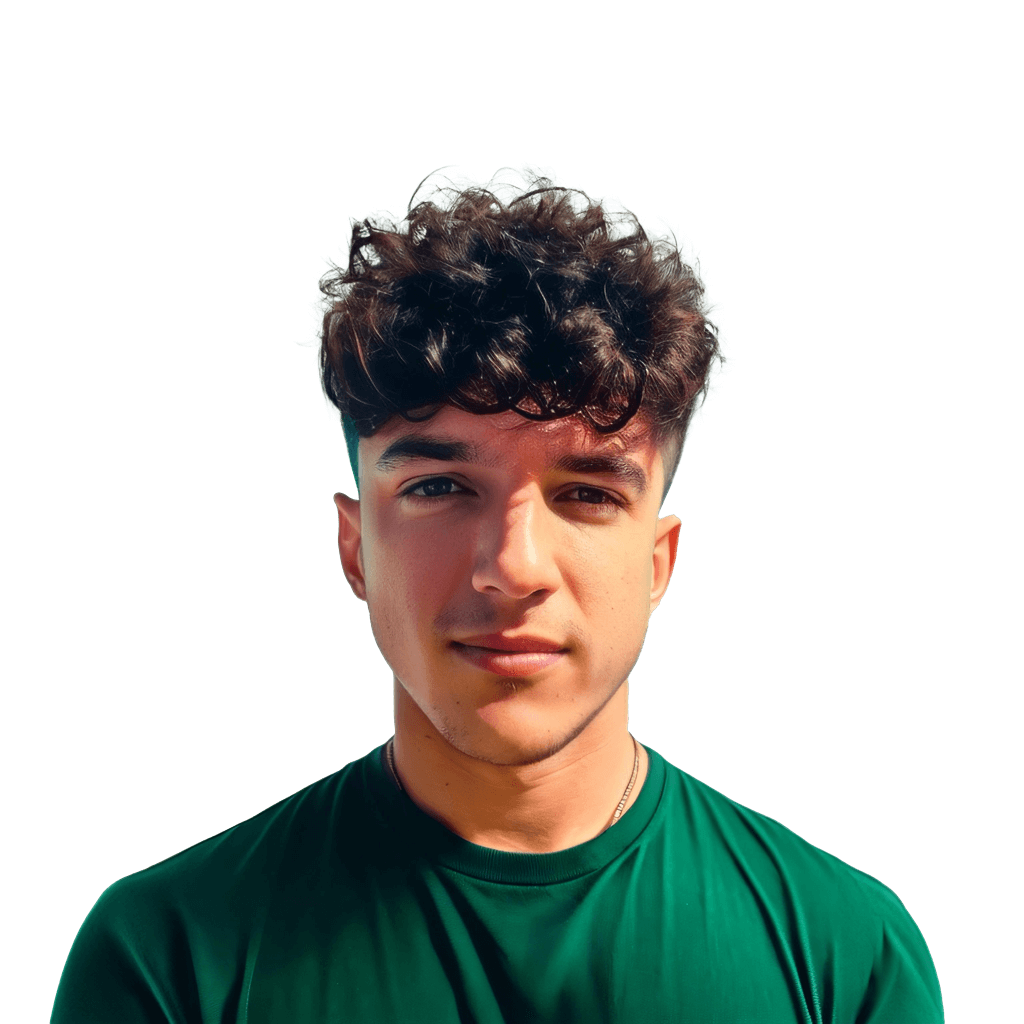
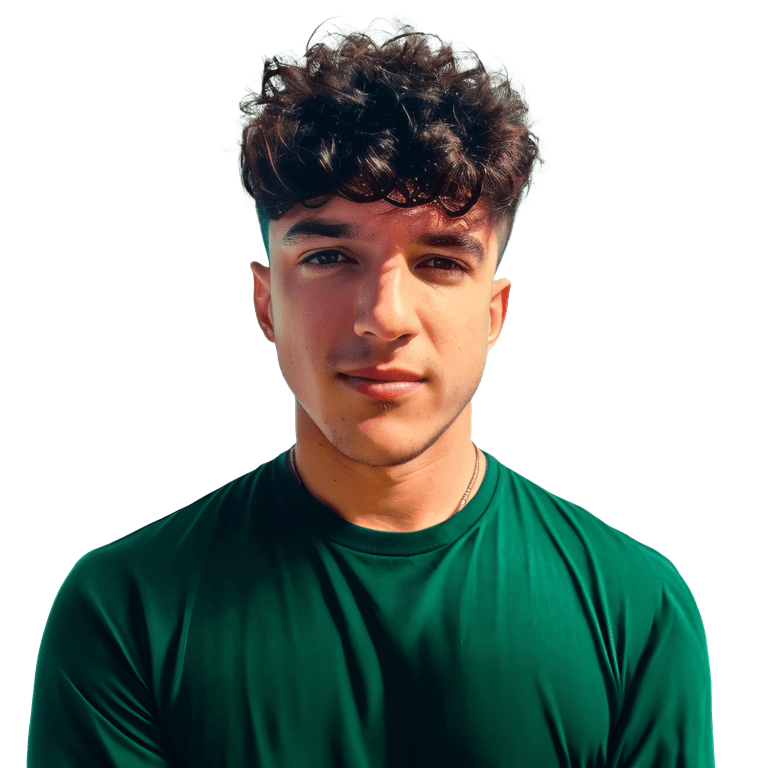
Styles, wave transitions, new profile photo.

diff --git a/src/app/_components/home.tsx b/src/app/_components/home.tsx
@@ -2,33 +2,32 @@ import Image from 'next/image'
 
 export default function Home () {
   return (
-    <main className='min-h-screen w-full' id='home'>
-      <div
-        className='absolute top-0 z-[-2] h-screen w-screen max-w-full
-       bg-jade-50 bg-[radial-gradient(ellipse_80%_80%_at_50%_-20%,rgba(67,229,160,0.4),rgba(255,255,255,0))]'
-      ></div>
-      <div className='relative z-10 flex min-h-screen container mx-auto p-24 pb-0'>
-        <div className='text-gray-800 text-pretty w-full text-center flex flex-col justify-end items-center'>
-          <div className='max-w-max'>
-            <h3 className='text-start small-heading'>¡Hola! Soy</h3>
-            <h1 className='big-heading'>Jorge González Azpillaga,</h1>
-            <h3 className='text-end small-heading'>desarrollador web.</h3>
-          </div>
-          <div className='w-full flex justify-center items-end'>
-            <Image
-              src='/profile.png'
-              alt='Foto de perfil personal - Jgonaz'
-              width={768}
-              height={768}
-              priority={true}
-              sizes='100vw'
-              style={{
-                minWidth: '350px',
-                maxWidth: '768px',
-                filter: 'drop-shadow(0px 0px 2px gray);'
-              }}
-            />
-          </div>
+    <main
+      className='h-screen w-screen max-w-full top-0 z-[-2] bg-jade-50 bg-[radial-gradient(ellipse_80%_80%_at_50%_-20%,rgba(67,229,160,0.4),rgba(255,255,255,0))]'
+      id='home'
+    >
+      <div className='h-screen container mx-auto p-4 md:p-6 lg:p-24 flex justify-center'>
+        <div className='max-w-max text-gray-800 mt-16 md:mt-24 lg:mt-32 xl:mt-36'>
+          <h3 className='text-start small-heading'>¡Hola! Soy</h3>
+          <h1 className='big-heading'>Jorge González Azpillaga,</h1>
+          <h3 className='text-end small-heading'>desarrollador web.</h3>
+        </div>
+        <div className='profile-photo absolute bottom-0 flex justify-center items-end w-full max-w-full min-w-[350px] h-[768px] z-20 translate-y-4rem sm:translate-y-8rem'>
+          <Image
+            src='/profile.png'
+            alt='Foto de perfil personal - Jgonaz'
+            width={768}
+            height={768}
+            priority={true}
+            sizes='100vw'
+            style={{
+              filter: 'drop-shadow(0px 0px 2px gray);',
+              objectFit: 'scale-down',
+              minWidth: '350px',
+              maxHeight: '65vh',
+              height: 'auto'
+            }}
+          />
         </div>
       </div>
     </main>

diff --git a/src/app/_components/waves.tsx b/src/app/_components/waves.tsx
@@ -1,0 +1,86 @@
+import '../_styles/waves.css'
+
+interface WavesProps {
+  color1?: string
+  color2?: string
+  color3?: string
+  color4?: string
+  background?: string
+}
+
+export default function Waves ({
+  color1 = '#b8fadd',
+  color2 = '#43e5a0',
+  color3 = '#0fa968',
+  color4 = '#11563a',
+  background = '#effef7'
+}: WavesProps) {
+  return (
+    <div className='waves' style={{ backgroundColor: background }}>
+      <div className='first-waves z-10'>
+        <svg
+          xmlns='http://www.w3.org/2000/svg'
+          xmlnsXlink='http://www.w3.org/1999/xlink'
+          viewBox='0 24 150 28'
+          preserveAspectRatio='none'
+          shapeRendering='auto'
+        >
+          <defs>
+            <path
+              id='gentle-wave'
+              d='M-160 44c30 0 58-18 88-18s 58 18 88 18 58-18 88-18 58 18 88 18 v44h-352z'
+            />
+          </defs>
+          <g className='parallax'>
+            <use
+              className='color1'
+              xlinkHref='#gentle-wave'
+              x='48'
+              y='0'
+              fill={color1}
+            />
+            <use
+              className='color2'
+              xlinkHref='#gentle-wave'
+              x='48'
+              y='3'
+              fill={color2}
+            />
+          </g>
+        </svg>
+      </div>
+      <div className='second-waves z-30'>
+        <svg
+          xmlns='http://www.w3.org/2000/svg'
+          xmlnsXlink='http://www.w3.org/1999/xlink'
+          viewBox='0 24 150 28'
+          preserveAspectRatio='none'
+          shapeRendering='auto'
+        >
+          <defs>
+            <path
+              id='gentle-wave'
+              d='M-160 44c30 0 58-18 88-18s 58 18 88 18 58-18 88-18 58 18 88 18 v44h-352z'
+            />
+          </defs>
+          <g className='parallax'>
+            <use
+              className='color3'
+              xlinkHref='#gentle-wave'
+              x='48'
+              y='5'
+              fill={color3}
+            />
+            <use
+              className='color4'
+              xlinkHref='#gentle-wave'
+              x='48'
+              y='7'
+              fill={color4}
+            />
+          </g>
+        </svg>
+      </div>
+    </div>
+  )
+}

diff --git a/src/app/_styles/waves.css b/src/app/_styles/waves.css
@@ -1,0 +1,49 @@
+.waves {
+  height: 60px;
+  width: 100%;
+
+  div {
+    height: 60px;
+    width: 100%;
+    position: absolute;
+
+    svg {
+      position: absolute;
+      background-color: transparent;
+      width: 100%;
+      height: 60px;
+      margin-bottom: -7px; /*Fix for safari gap*/
+    }
+  }
+}
+
+.parallax {
+  use {
+    animation: move-forever 25s cubic-bezier(0.55, 0.5, 0.45, 0.5) infinite;
+  }
+  .color1 {
+    animation-delay: -2s;
+    animation-duration: 8s;
+  }
+  .color2 {
+    animation-delay: -6s;
+    animation-duration: 16s;
+  }
+  .color3 {
+    animation-delay: -4s;
+    animation-duration: 12s;
+  }
+  .color4 {
+    animation-delay: -8s;
+    animation-duration: 20s;
+  }
+}
+
+@keyframes move-forever {
+  0% {
+    transform: translate3d(-90px, 0, 0);
+  }
+  100% {
+    transform: translate3d(85px, 0, 0);
+  }
+}

diff --git a/src/app/globals.css b/src/app/globals.css
@@ -17,12 +17,22 @@
 }
 
 .big-heading {
-  font-size: clamp(40px, 6vw, 80px);
+  font-size: clamp(24px, 6vw, 48px);
   font-weight: 600;
   text-wrap: nowrap;
 }
 
 .small-heading {
-  font-size: clamp(16px, 2vw, 32px);
+  font-size: clamp(12px, 3vw, 24px);
   text-wrap: nowrap;
+}
+
+/* tailwind.css */
+@layer utilities {
+  .translate-y-4rem {
+    transform: translateY(4rem);
+  }
+  .translate-y-8rem {
+    transform: translateY(8rem);
+  }
 }

diff --git a/src/app/_components/menu.tsx b/src/app/_components/menu.tsx
@@ -2,7 +2,7 @@ import Link from 'next/link'
 
 export default function Menu () {
   return (
-    <nav className='flex justify-center gap-12 text-lg font-semibold text-gray-600'>
+    <nav className='flex justify-center gap-12 text-md font-semibold text-gray-600'>
       <Link href='#work'>Experiencia</Link>
       <Link href='#education'>Formación</Link>
       <Link href='#contact'>Contacto</Link>

diff --git a/src/app/page.tsx b/src/app/page.tsx
@@ -2,11 +2,13 @@ import Home from './_components/home'
 import Work from './_components/work'
 import Education from './_components/education'
 import Contact from './_components/contact'
+import Waves from './_components/waves'
 
 export default function Page () {
   return (
     <>
       <Home />
+      <Waves />
       <Work />
       <Education />
       <Contact />
